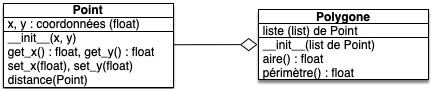
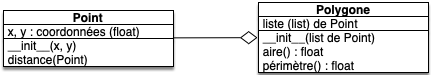
update

diff --git a/docs/src/cours/algorithme-code-théorie/code/programmation-objet/héritage/code/polygones.py b/docs/src/cours/algorithme-code-théorie/code/programmation-objet/héritage/code/polygones.py
@@ -1,0 +1,58 @@
+from math import sqrt
+
+
+class Point:
+    def __init__(self, x, y):
+        self.x = x
+        self.y = y
+
+    def distance(self, other):
+        x1 = self.x
+        x2 = other.x
+
+        y1 = self.y
+        y2 = other.y
+
+        return sqrt((x2 - x1) ** 2 + (y2 - y1) ** 2)
+
+
+class Polygone:
+    def __init__(self, points):
+        self._points = tuple(points)
+
+    def périmètre(self):
+        d = 0
+        pivot = self._points[0]
+        for point in self._points[1:]:
+            d += pivot.distance(point)
+            pivot = point
+        d += pivot.distance(self._points[0])
+
+        return d
+
+    def aire(self):
+        a = 0
+        pivot = self._points[0]
+        for point in self._points[1:]:
+            a += pivot.x * point.y - pivot.y * point.x
+            pivot = point
+
+        point = self._points[0]
+        a += pivot.x * point.y - pivot.y * point.x
+
+        return 0.5 * abs(a)
+
+
+class Triangle(Polygone):
+    def __init__(self, point1, point2, point3):
+        super().__init__([point1, point2, point3])
+
+
+points = [Point(0, 0), Point(0, 2), Point(1, 2), Point(1, 0)]
+polygone = Polygone(points)
+print(polygone.périmètre())
+print(polygone.aire())
+
+triangle = Triangle(Point(0, 0), Point(0, 2), Point(1, 2))
+print(isinstance(triangle, Triangle))
+print(isinstance(triangle, Polygone))

diff --git a/docs/src/enseignements/programmation-algorithmes/annales/2022-2023/ds_1.md b/docs/src/enseignements/programmation-algorithmes/annales/2022-2023/ds_1.md
@@ -26,9 +26,39 @@ Comme en code (maxime de Kent Beck) :
 
 Pour l'instant, on se concentre sur le 1 et 2, vous aviez ainsi 3h pour un sujet de 1h30. Si vous avez bien compris et réussi le sujet, il vous faut travailler la rapidité en L2 et L3.
 
-### Erreurs communes
+### Remarques Q2
 
-* le sujet donne des fonction, il faut les utiliser.
+1 != True
+
+Comme A = cte, alors O(1). Ne fonctionne que pour A par pour une autre liste.
+
+### Remarques Q3
+
+on ne teste pas la véracité des booléen, on l'utilise.
+
+### Remarques Q5
+
+Attention aux tailles des listes.
+
+```
+def compare(L1, L2):
+    for i in range(len(L1)):
+        if L1[i] != L2[i]:
+        return False
+    return True
+```
+
+Produit une erreur si `len((L2)) < len(L1)`{.language-} et est faux si `len((L2)) > len(L1)`{.language-} (par exemple `L1= [1, 2]`{.language-} et `L2 = [1]`{.language-}).
+
+### Remarques Q7
+
+Le terme est booléen. Dire juste `True`{.language-} ou `False`{.language-} n'est pas suffisant.
+
+### Remarques Q8-Q11
+
+Le sujet donne des fonctions à coder, il faut les utiliser. En plus, les algorithmes deviennent plus simple.
+
+Attention aux complexité. La concaténation crée une nouvelle liste, sa complexité est égale à la somme des tailles des 2 listes.
 
 ## Correction
 
@@ -49,12 +79,13 @@ A = [True, False, True, True, False, False, False, False, False, False, True]
 Ou si on veut la créer :
 
 ```python
-n = 11
-A = [False for i in range(n)]
+A = [False for i in range(11)]
 
 for i in (0, 2, 3, 10):
     A[i] = True
 ```
+
+La complexité de l'algorithme précédent est en $\mathcal{O}(1)$ car il ne fonctionne **que** pour $A$ qui est de taille $11$.
 
 ### Q3
 
@@ -62,6 +93,8 @@ for i in (0, 2, 3, 10):
 def occupe(L, i):
     return L[i]
 ```
+
+La complexité de fonction `occupe(L, i)` est $\mathcal{O}(1)$ puisque'il suffit accéder à un élément d'une liste. Elle donne bien le résultat attendu si $L$ est conforme à Q1.
 
 ### Q4
 
@@ -88,12 +121,14 @@ def égal(L1, L2):
     return L1 == L2
 ```
 
+Les deux fonctions vérifient que les longueurs des deux listes sont égales et que leurs éléments coïncident.
+
 ### Q6
 
 A part la boucle `for`{.language-} toutes les autres opérations de la méthode `égal`{.language-} sont en $\mathcal{O}(1)$. Si les deux listes à comparer sont égales, il faut parcourir tous les éléments de la liste : la complexité est donc en $\mathcal{O}(n)$ où $n$ est la longueur de la liste `L1`{.language-}.
 
 {% attention %}
-Les complexités des **deux** fonctions les mêmes. La comparaison de deux listes en python avec l'opérateur `==` est de complexité égal à la taille de la plus petite des listes.
+Les complexités des deux fonctions **sont les mêmes**. La comparaison de deux listes en python avec l'opérateur `==` est de complexité égal à la taille de la plus petite des listes.
 {% endattention %}
 
 ### Q7
@@ -102,11 +137,28 @@ Le retour de la fonction `égal`{.language-} est un booléen.
 
 ### Q8
 
-Procédons par étape. L'instruction `avancer(avancer(A, False), True)`{.language-} revient à exécuter `avancer(P1, True)` où `P1=avancer(A, False)`{.language-}. Il faut donc commencer par déterminer `P1` avant de calculer `avancer(P1, P2)`.
+Procédons par étape. Position initiale `A = [True, False, True, True, False, False, False, False, False, False, True]`{.language-} :
 
-Comme `A = [True, False, True, True, False, False, False, False, False, False, True]`{.language-}, on a que `P1 = avancer(A, False)`{.language-} vaut `[False, True, False, True, True, False, False, False, False, False, False]`{.language-}.
+```
+A  : ⇨▢⇨⇨▢▢▢▢▢▢⇨
+```
+
+L'instruction `P2 = avancer(avancer(A, False), True)`{.language-} revient à exécuter `avancer(P1, True)` où `P1=avancer(A, False)`{.language-}. Il faut donc commencer par déterminer `P1` avant de calculer `avancer(P1, P2)`.
+
+On a que `P1 = avancer(A, False)`{.language-} vaut `[False, True, False, True, True, False, False, False, False, False, False]`{.language-}.
+
+```
+A  : ⇨▢⇨⇨▢▢▢▢▢▢⇨
+P1 : ▢⇨▢⇨⇨▢▢▢▢▢▢
+```
 
 De là, `avancer(P1, True)`{.language-} vaut alors : `[True, False, True, False, True, True, False, False, False, False, False]`{.language-}
+
+```
+A  : ⇨▢⇨⇨▢▢▢▢▢▢⇨
+P1 : ▢⇨▢⇨⇨▢▢▢▢▢▢
+P2 : ⇨▢⇨▢⇨⇨▢▢▢▢▢
+```
 
 ### Q9
 
@@ -149,6 +201,22 @@ def avance_debut_bloque(L, b, m):
             return avancer_debut(L, b, i)
     return list(L) # copie de la liste
 ```
+
+Il y a aussi la version récursive qui se rappelle s'il n'est pas possible de résoudre le problème directement :
+
+```python
+def avance_debut_bloque(L, b, m):
+    if m == 0:
+        return list(L) # copie de la liste    
+    elif not occupe(L, m - 1):
+        return avancer_debut(L, b, m - 1)
+    else:
+        return avance_debut_bloque(L, b, m - 1)
+```
+
+{% attention %}
+Le sujet demande de rendre une **copie** de la liste.
+{% endattention %}
 
 ### Q12
 

diff --git a/docs/src/cours/algorithme-code-théorie/code/programmation-objet/héritage/index.md b/docs/src/cours/algorithme-code-théorie/code/programmation-objet/héritage/index.md
@@ -148,24 +148,12 @@ class Point:
         self.x = x
         self.y = y
 
-    def getx(self):
-        return self.x
-
-    def get_y(self):
-        return self.y
-
-    def set_x(self, x):
-        self.x = x
-
-    def set_y(self):
-        self.y = y
-
     def distance(self, other):
-        x1 = self.get_x()
-        x2 = other.get_x()
+        x1 = self.x
+        x2 = other.x
 
-        y1 = self.get_y()
-        y2 = other.get_y()
+        y1 = self.y
+        y2 = other.y
 
         return sqrt((x2 - x1) ** 2 + (y2 - y1) ** 2)
 
@@ -188,11 +176,11 @@ class Polygone:
         a = 0
         pivot = self._points[0]
         for point in self._points[1:]:
-            a += pivot.get_x() * point.get_y() - pivot.get_y() * point.get_x()
+            a += pivot.x * point.y - pivot.y * point.x
             pivot = point
 
         point = self._points[0]
-        a += pivot.get_x() * point.get_y() - pivot.get_y() * point.get_x()
+        a += pivot.x * point.y - pivot.y * point.x
 
         return 0.5 * abs(a)
 
@@ -270,6 +258,20 @@ Pour trouver le périmètre, python fonctionne ainsi :
 3. existe-t-il un nom `périmètre`{.language-} dans la classe mère de `Triangle`{.language-}, `Polygone`{.language-} : OUI
 
 Une fois la méthode trouvée, on l'exécute en plaçant l'objet (ici notre `triangle`{.language-} en 1er paramètre, c'est à dire `self`{.language-} de la méthode `périmètre`{.language-} définie dans `Polygone`{.language-}).
+
+{% note %}
+Les objets de type `Triangle`{.language-} sont **aussi** des objets de type `Polygone`{.language-} :
+
+```python
+>>> triangle = Triangle(Point(0, 0), Point(0, 2), Point(1, 2))
+>>> print(isinstance(triangle, Triangle))
+True
+>>> print(isinstance(triangle, Polygone))
+True
+>>> 
+```
+
+{% endnote %}
 
 ## <span id="exemple-D&D"></span> Exemple 2 : donjons et dragons
 
@@ -398,6 +400,10 @@ class Personnage:
             self.vie = 0
             print("je suis mort")
 ```
+
+{% faire "**Pour faire plus joli :**"%}
+remplacez les méthodes `Personnage.get_vie()` et `Personnage.set_vie(valeur)` par des `@property`{.language-} vues dans le [projet objets : Dés](../projet-objets-dés#property).
+{% endfaire %}
 
 ## On vérifie qu'on a compris
 

diff --git a/docs/src/enseignements/programmation-algorithmes/index.md b/docs/src/enseignements/programmation-algorithmes/index.md
@@ -192,8 +192,8 @@ A partir de la partie 2, les contrôles de début séance seront à écrire en [
 #### <span id="partie-2.2.2"></span> Vendredi
 
 1. [Projet composition : dés]({{ "/cours/algorithme-code-théorie/code/programmation-objet/projet-composition-dés" | url }})
-2. [Projet agrégation : cartes]({{ "/cours/algorithme-code-théorie/code/programmation-objet/projet-agrégation-cartes" | url }})
-3. [Projet : héritage]({{ "/cours/algorithme-code-théorie/code/programmation-objet/projet-héritage" | url }})
+2. [Projet : héritage]({{ "/cours/algorithme-code-théorie/code/programmation-objet/projet-héritage" | url }})
+3. [Projet agrégation : cartes]({{ "/cours/algorithme-code-théorie/code/programmation-objet/projet-agrégation-cartes" | url }})
 4. Pour aller plus loin : [projet : bataille navale]({{ "/cours/algorithme-code-théorie/code/programmation-objet/projet-bataille-navale" | url }})
 
 ### <span id="partie-2.3"></span> Semaine 7
